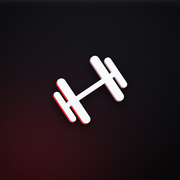
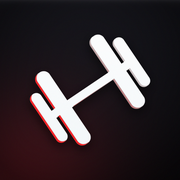
Icona: manubrio piu grande
Claude-Session: https://claude.ai/code/session_01HK4HKgVCou94mENysarbi4

Changed region(s): [[0.1667, 0.1667, 0.8333, 0.8333]]

diff --git a/sw.js b/sw.js
@@ -1,4 +1,4 @@
-const V="dt-v5";
+const V="dt-v6";
 const FILES=["./","./index.html","./manifest.webmanifest","./icon-192.png","./icon-512.png","./apple-touch-icon.png","./bg-d1.jpg","./bg-d2.jpg","./bg-d3.jpg","./bg-n.jpg"];
 self.addEventListener("install",e=>{e.waitUntil(caches.open(V).then(c=>c.addAll(FILES)).then(()=>self.skipWaiting()));});
 self.addEventListener("activate",e=>{e.waitUntil(caches.keys().then(ks=>Promise.all(ks.filter(k=>k!==V).map(k=>caches.delete(k)))).then(()=>self.clients.claim()));});
